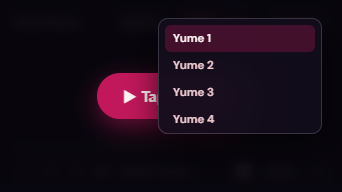
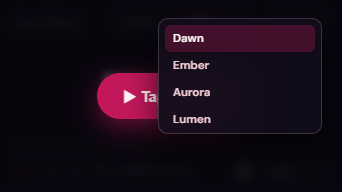
feat(anime): give each Yume server its own name
"Yume 1" through "Yume 8" plus "Yume Multi" read like a numbered list of
interchangeable parts. Each is now a short, warm, light-themed name that
matches Everglow: Dawn, Ember, Aurora, Lumen, Halo, Comet, Prism, Zenith,
Solstice.

The names still say nothing about the upstream. The provider name stays
ours to know; the browser only ever sees the label.

Proof shots regenerated against the real table, and the README now lists
the label-to-upstream mapping so the names are not a mystery later.

diff --git a/cloudflare/src/yumezone.js b/cloudflare/src/yumezone.js
@@ -28,18 +28,19 @@ const DESKTOP_UA =
  *  Order is hardsub first: our player renders `<track>` captions only as
  *  WebVTT, and YumeZone ships ASS/SRT, so a softsub server would play with no
  *  subtitles at all. The hardsub servers have them baked into the picture.
- *  `label` is deliberately neutral — the upstream name is ours to know, not
- *  something the browser needs. */
+ *  `label` is what Clair reads, so it is short, warm and light-themed to
+ *  match Everglow, and deliberately says nothing about the upstream: the
+ *  provider name is ours to know, not something the browser needs. */
 const YUME_SERVERS = [
-  { id: 'yume-1', label: 'Yume 1', provider: 'Karl - 3', hardsub: true },
-  { id: 'yume-2', label: 'Yume 2', provider: 'Goku', hardsub: true },
-  { id: 'yume-3', label: 'Yume 3', provider: 'Nexus', hardsub: true },
-  { id: 'yume-4', label: 'Yume 4', provider: 'Karl - 1', hardsub: false },
-  { id: 'yume-5', label: 'Yume 5', provider: 'Karl - 2', hardsub: false },
-  { id: 'yume-6', label: 'Yume 6', provider: 'Rin', hardsub: false },
-  { id: 'yume-7', label: 'Yume 7', provider: 'Koto', hardsub: false },
-  { id: 'yume-8', label: 'Yume 8', provider: 'Riko', hardsub: false },
-  { id: 'yume-9', label: 'Yume Multi', provider: 'Rudra (Multi)', hardsub: false },
+  { id: 'yume-1', label: 'Dawn', provider: 'Karl - 3', hardsub: true },
+  { id: 'yume-2', label: 'Ember', provider: 'Goku', hardsub: true },
+  { id: 'yume-3', label: 'Aurora', provider: 'Nexus', hardsub: true },
+  { id: 'yume-4', label: 'Lumen', provider: 'Karl - 1', hardsub: false },
+  { id: 'yume-5', label: 'Halo', provider: 'Karl - 2', hardsub: false },
+  { id: 'yume-6', label: 'Comet', provider: 'Rin', hardsub: false },
+  { id: 'yume-7', label: 'Prism', provider: 'Koto', hardsub: false },
+  { id: 'yume-8', label: 'Zenith', provider: 'Riko', hardsub: false },
+  { id: 'yume-9', label: 'Solstice', provider: 'Rudra (Multi)', hardsub: false },
 ];
 
 const YUME_SERVER_IDS = new Set(YUME_SERVERS.map((s) => s.id));

diff --git a/docs/pr-proof/yumezone-server-picker/README.md b/docs/pr-proof/yumezone-server-picker/README.md
@@ -1,11 +1,29 @@
 # YumeZone server + in-player server picker
 
 Synthetic fixture: the real `hlsPlayerHtml` output with a public test stream
-(`test-streams.mux.dev`) and a fake nine-entry YumeZone server list. No couple
-data, no credentials, no Worker.
+(`test-streams.mux.dev`) and the real nine-entry YumeZone server list. No
+couple data, no credentials, no Worker.
+
+The nine names, in the order Clair sees them:
+
+| Label | Upstream | Subs |
+| --- | --- | --- |
+| Dawn | Karl - 3 | hardsub |
+| Ember | Goku | hardsub |
+| Aurora | Nexus | hardsub |
+| Lumen | Karl - 1 | softsub |
+| Halo | Karl - 2 | softsub |
+| Comet | Rin | softsub |
+| Prism | Koto | softsub |
+| Zenith | Riko | softsub |
+| Solstice | Rudra (Multi) | softsub |
+
+The labels are short, warm and light-themed to match Everglow, and say nothing
+about the upstream — the provider name is ours to know, not something the
+browser needs.
 
 - `shot-phone.png` / `shot-tablet.png`: the picker open on a 390×844 phone and
-  an 834×1112 tablet. Nine servers, "Yume 1" highlighted as the active one.
+  an 834×1112 tablet. Nine servers, "Dawn" highlighted as the active one.
   The chip sits in the same row as SUB/DUB/Episodes and uses the same `chip`
   style (21px tall, 10.5px label) — it is not a new visual language.
 - `shot-phone-inapp.png`: the picker at 342×192, the real size of the in-app
@@ -13,7 +31,7 @@ data, no credentials, no Worker.
   so without a cap the menu's top landed at −123px and the first four rows —
   including the current server — were clipped and untappable. With
   `max-height:calc(100vh - 76px)` the menu sits at top 18px, bottom 134px,
-  "Yume 1" is tappable, and the rest scrolls (`scrollHeight` 255).
+  "Dawn" is tappable, and the rest scrolls (`scrollHeight` 255).
 - `shot-phone-hud.png`: the same page with the menu closed, showing the
   "Servers" chip in place.
 - `shot-phone-recover.png`: a picked server died and the stalled card is up.
@@ -48,7 +66,7 @@ and `animex_progress_bridge_test.dart` pins every resolver-backed source.
 ## Live check (read-only, real fetch)
 
 `resolveYumeZone(21, 1, 'sub', …)` against the real site resolved through
-Yume 1 (Karl - 3), and the Worker then served the whole chain:
+Dawn (Karl - 3), and the Worker then served the whole chain:
 
 - master → 2 sealed variant links, no `yumezone.live` / `flixcloud` /
   `rundowncdn` anywhere in the body
@@ -61,7 +79,7 @@ a folder, not a URL, so the upstream path never appears.
 
 ## Checks
 
-`flutter analyze`, 1,948 Flutter tests (`--exclude-tags="golden,network"`), all
+`flutter analyze`, 1,955 Flutter tests (`--exclude-tags="golden,network"`), all
 16 `tool/ci/check_*.dart` guards, and 85 Worker tests passed.
 
 Local note: the edit-time analyzer reports 30 "undefined class StatefulWidget /

diff --git a/cloudflare/README.md b/cloudflare/README.md
@@ -59,7 +59,7 @@ when it is tapped, and the playhead is kept across the swap.
 
 Server order depends on audio. Our player renders `<track>` captions only as
 WebVTT and YumeZone ships ASS/SRT, so **subbed** audio leads with the hardsub
-servers (Yume 1–3) — a softsub server would play with no subtitles at all.
+servers (Dawn, Ember, Aurora) — a softsub server would play with no subtitles at all.
 **Dubbed** audio leads with the softsub servers, because burned-in English over
 English audio is noise. YumeZone subtitle tracks are therefore not served.
 
